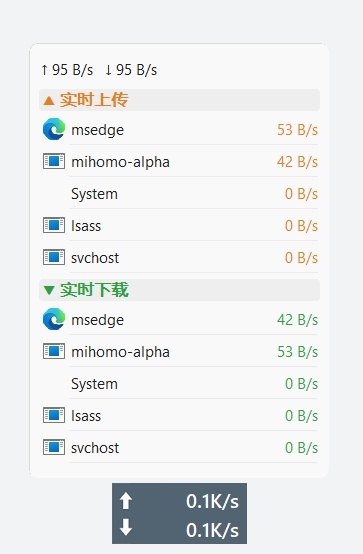
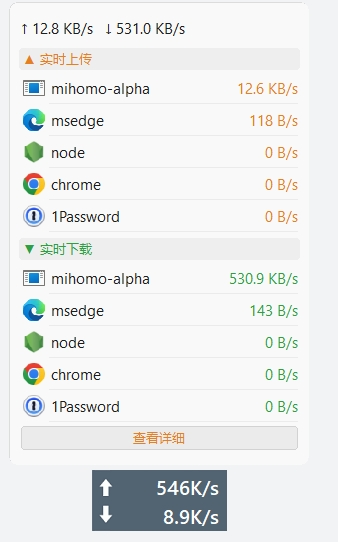
docs: 添加详情窗口实时/历史流量截图

diff --git a/README.md b/README.md
@@ -8,7 +8,9 @@ TrafficMonitor 的插件，显示每个进程的网络速度。
 
 ![悬浮信息窗口](docs/screenshot-popup.jpg)
 
-![详情窗口](docs/screenshot-detail.jpg)
+![详情窗口-实时流量](docs/screenshot-detail-realtime.jpg)
+
+![详情窗口-历史流量](docs/screenshot-detail-history.jpg)
 
 ## 功能
 